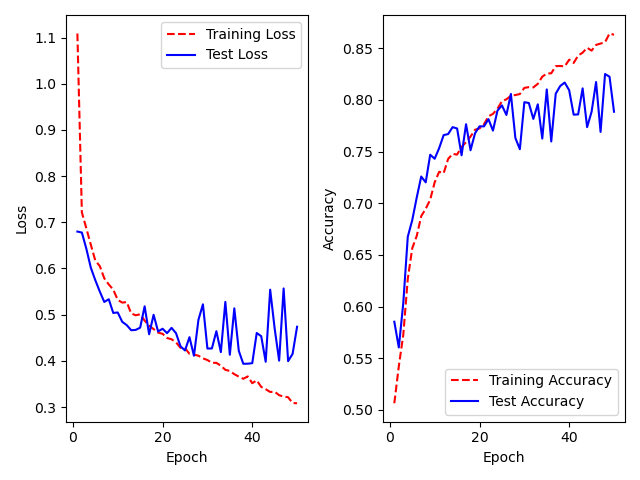
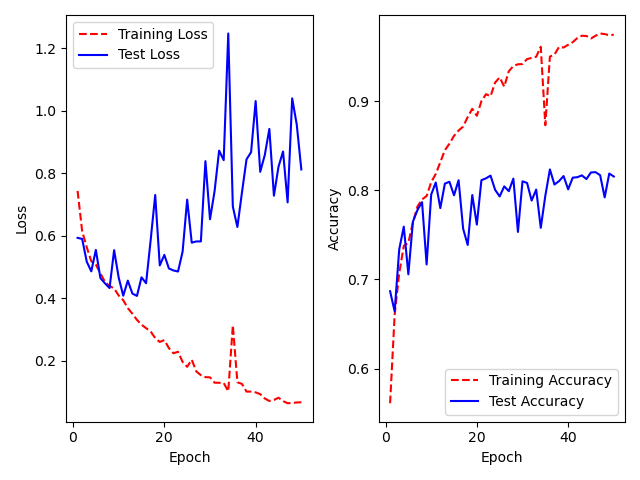
working on resnet, reordered an add function

diff --git a/experiment_2/cnn_resblock.py b/experiment_2/cnn_resblock.py
@@ -70,6 +70,7 @@ def residual_stack(input, filters):
     Returns:
         Residual stack output.
     """
+    # IS THIS PART RIGHT?
     input_c = Conv2D(filters, 1, dilation_rate=1, padding="same")(input)
 
     c1 = Conv2D(filters, 3, dilation_rate=1, padding="same")(input)
@@ -78,7 +79,7 @@ def residual_stack(input, filters):
 
     c3 = Conv2D(filters, 3, dilation_rate=3, padding="same")(add1)
     lrelu3 = leaky_relu_bn(c3)
-    add2 = Add()([add1, lrelu3])
+    add2 = Add()([lrelu3, add1])
 
     c5 = Conv2D(filters, 3, dilation_rate=9, padding="same")(add2)
     lrelu5 = leaky_relu_bn(c5)
@@ -98,6 +99,7 @@ def create_res_net():
     t = leaky_relu_bn(t)
     #t = Dropout(0.5)(t)
     
+    t = residual_stack(t, filters=num_filters)
     t = residual_stack(t, filters=num_filters)
     # t = Dropout(0.5)(t)
     # t = residual_stack(t, filters=num_filters)
